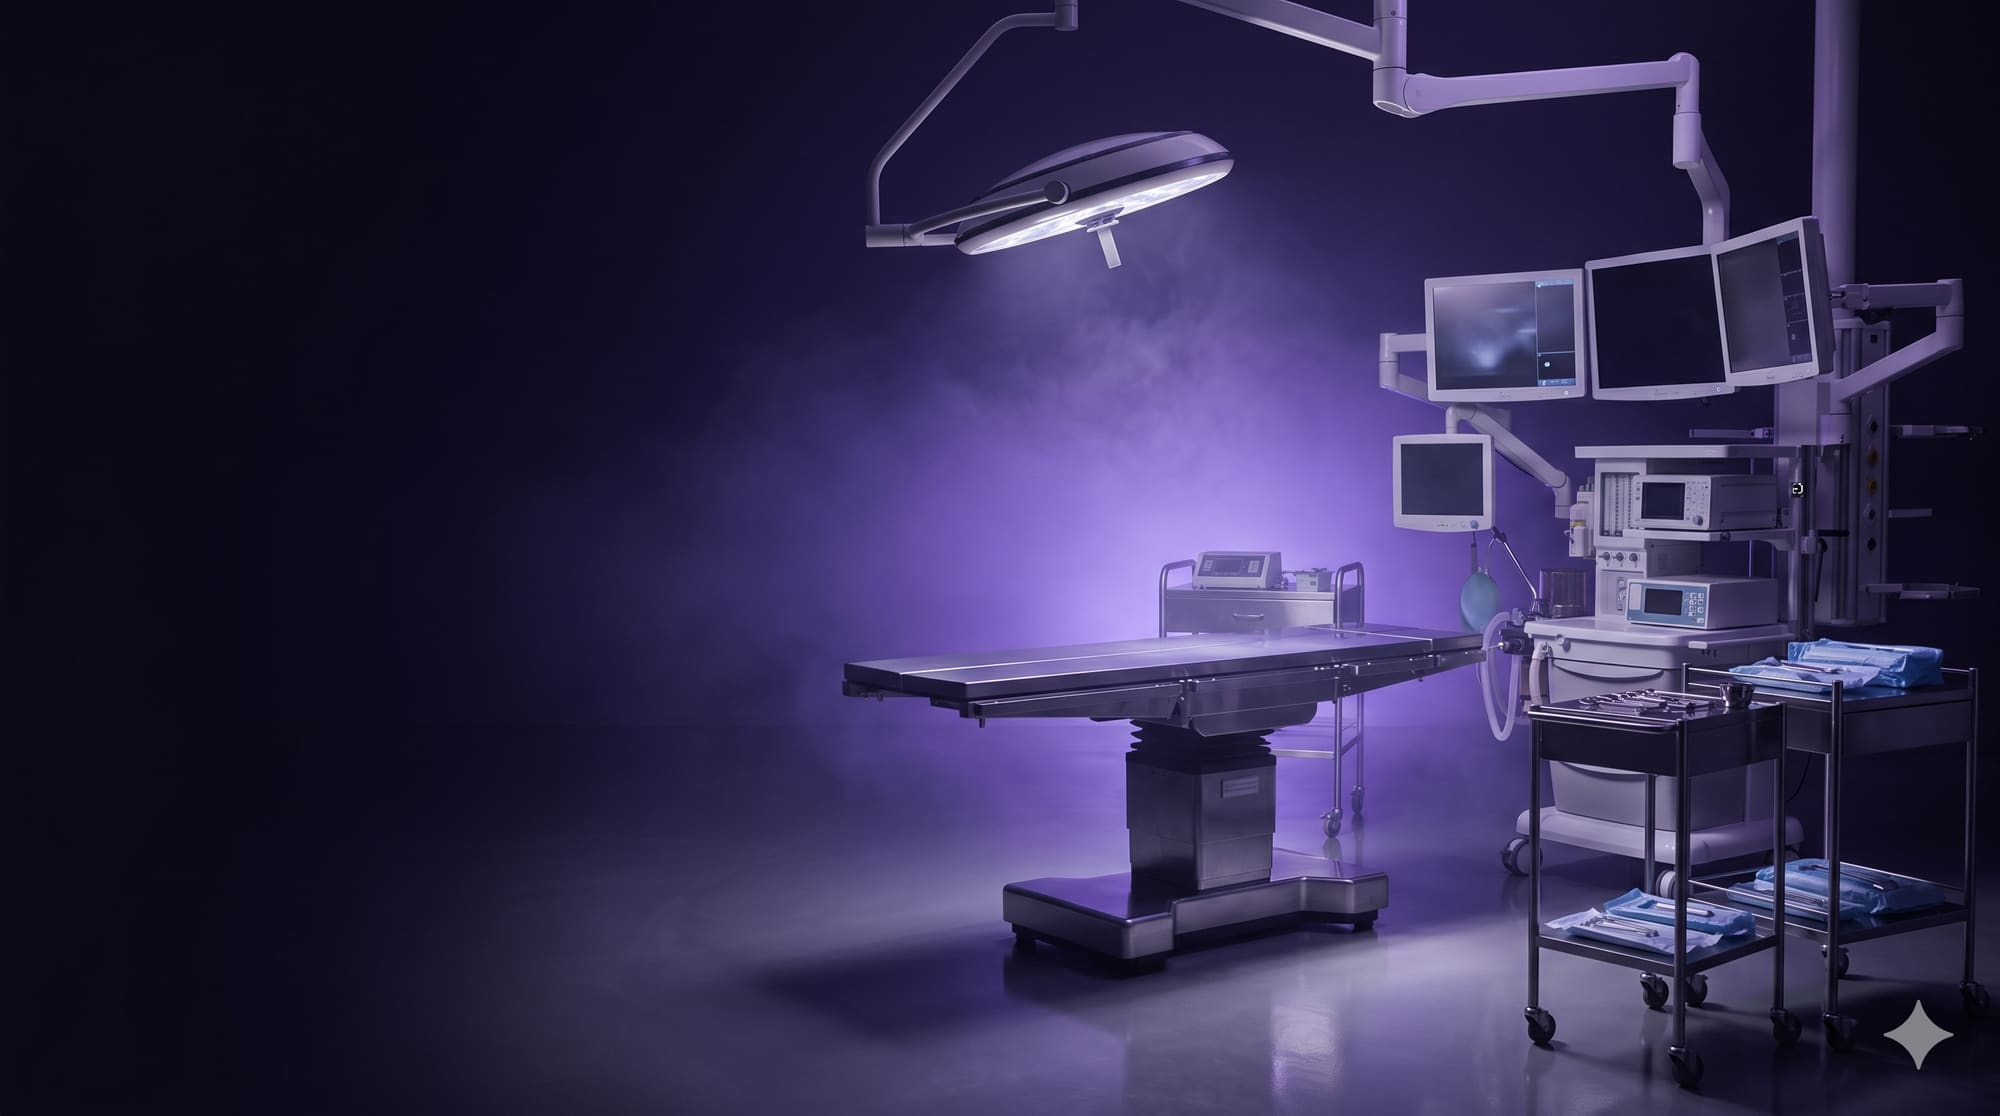
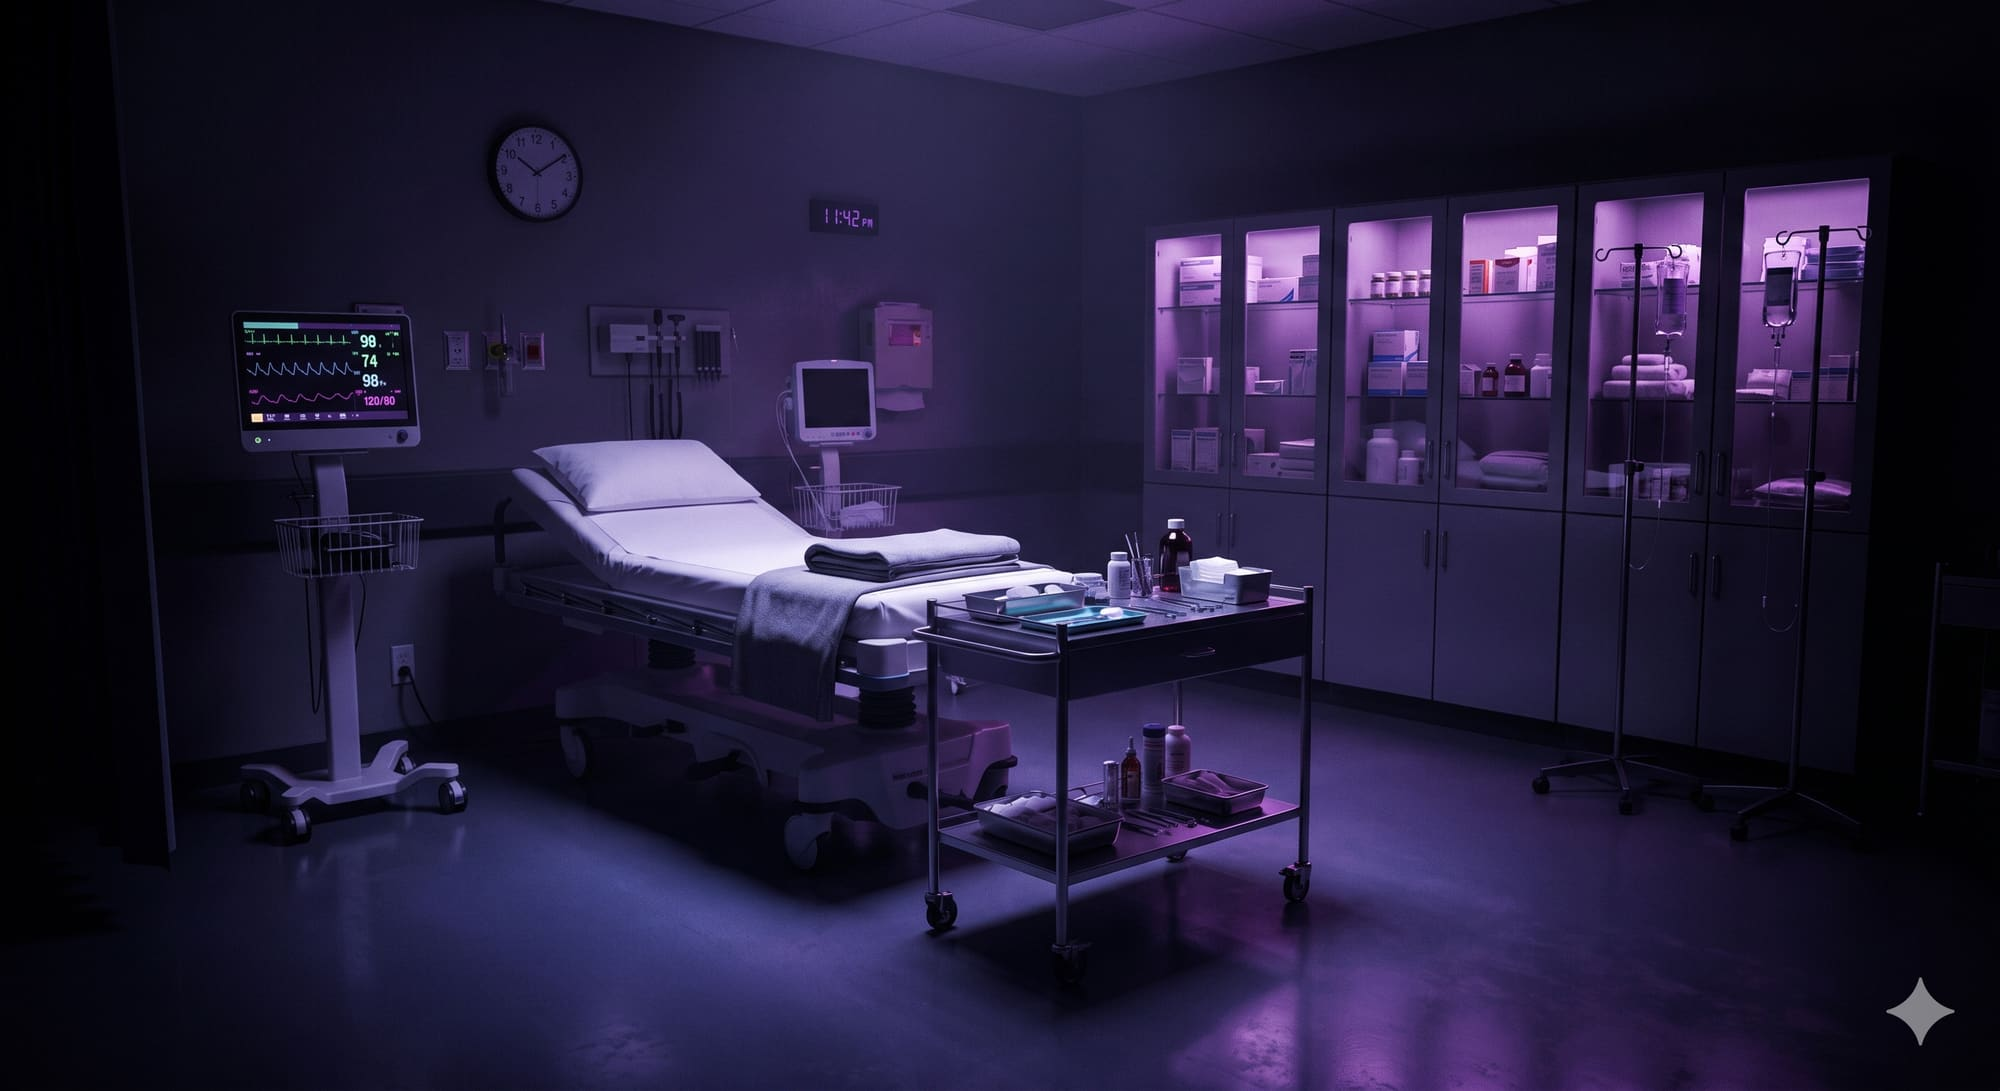
refactor(front): rename sector wallpapers to english, mirror railway and refresh medical and security images

diff --git a/apps/web/src/app/landing/ui/landing-hero/landing-hero.html b/apps/web/src/app/landing/ui/landing-hero/landing-hero.html
@@ -2,10 +2,10 @@
   <div class="hero__row">
     <article class="hero__panel hero__panel--dominant">
       <picture class="hero__media hero__media--parallax">
-        <source srcset="/sectors/ferroviaire.webp" type="image/webp" />
+        <source srcset="/sectors/railway.webp" type="image/webp" />
         <img
           class="hero__image"
-          src="/sectors/ferroviaire.jpg"
+          src="/sectors/railway.jpg"
           alt="Secteur ferroviaire"
           fetchpriority="high"
         />

diff --git a/apps/web/src/app/landing/ui/landing-hero/landing-hero.ts b/apps/web/src/app/landing/ui/landing-hero/landing-hero.ts
@@ -68,7 +68,7 @@ export class LandingHero {
     },
     {
       name: 'Sécurité',
-      image: '/sectors/securite',
+      image: '/sectors/security',
       alt: 'Secteur sécurité',
       description:
         'Concours et tests d’aptitude des métiers de la sûreté, exigeants sur la vigilance et la prise de décision.',
@@ -76,7 +76,7 @@ export class LandingHero {
     },
     {
       name: 'Conduite',
-      image: '/sectors/conduite',
+      image: '/sectors/driving',
       alt: 'Secteur conduite',
       description:
         'Sélections des métiers de la conduite et du transport, centrées sur la vigilance, la perception et la coordination.',